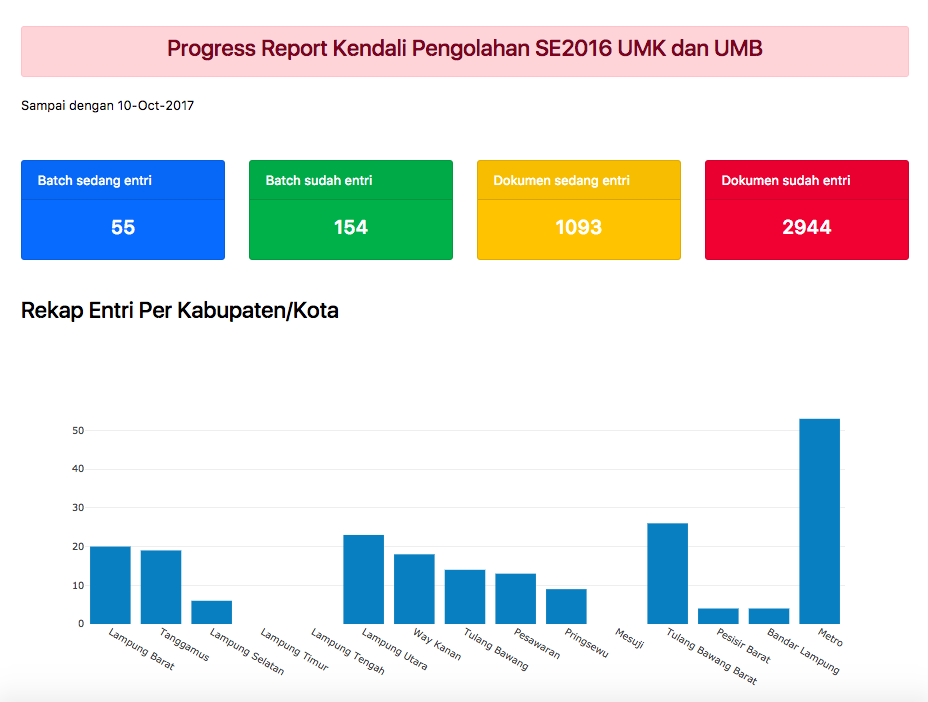
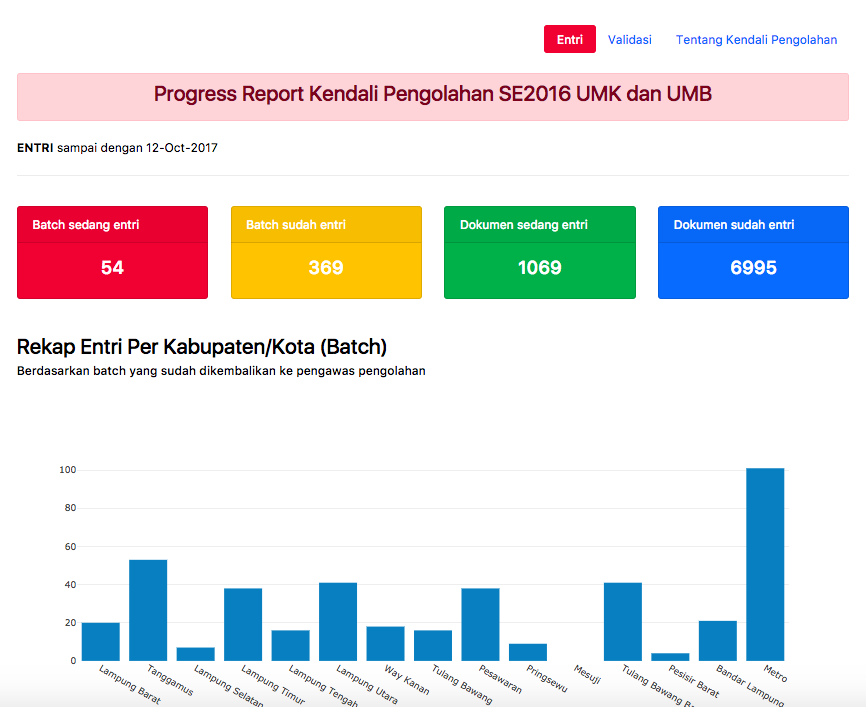
Update README dan screenshoot tampilan

diff --git a/README.md b/README.md
@@ -7,7 +7,7 @@ Ini adalah lanjutan dari lapor entri (Android) dan juga monitor entri (Java Swin
 ## Fitur
 
 - [x] Report untuk Operator Entri
-- [ ] Report untuk Operator Validasi
+- [x] Report untuk Operator Validasi
 - [ ] Ekspor data untuk report
 
 ## Hubungi kami
